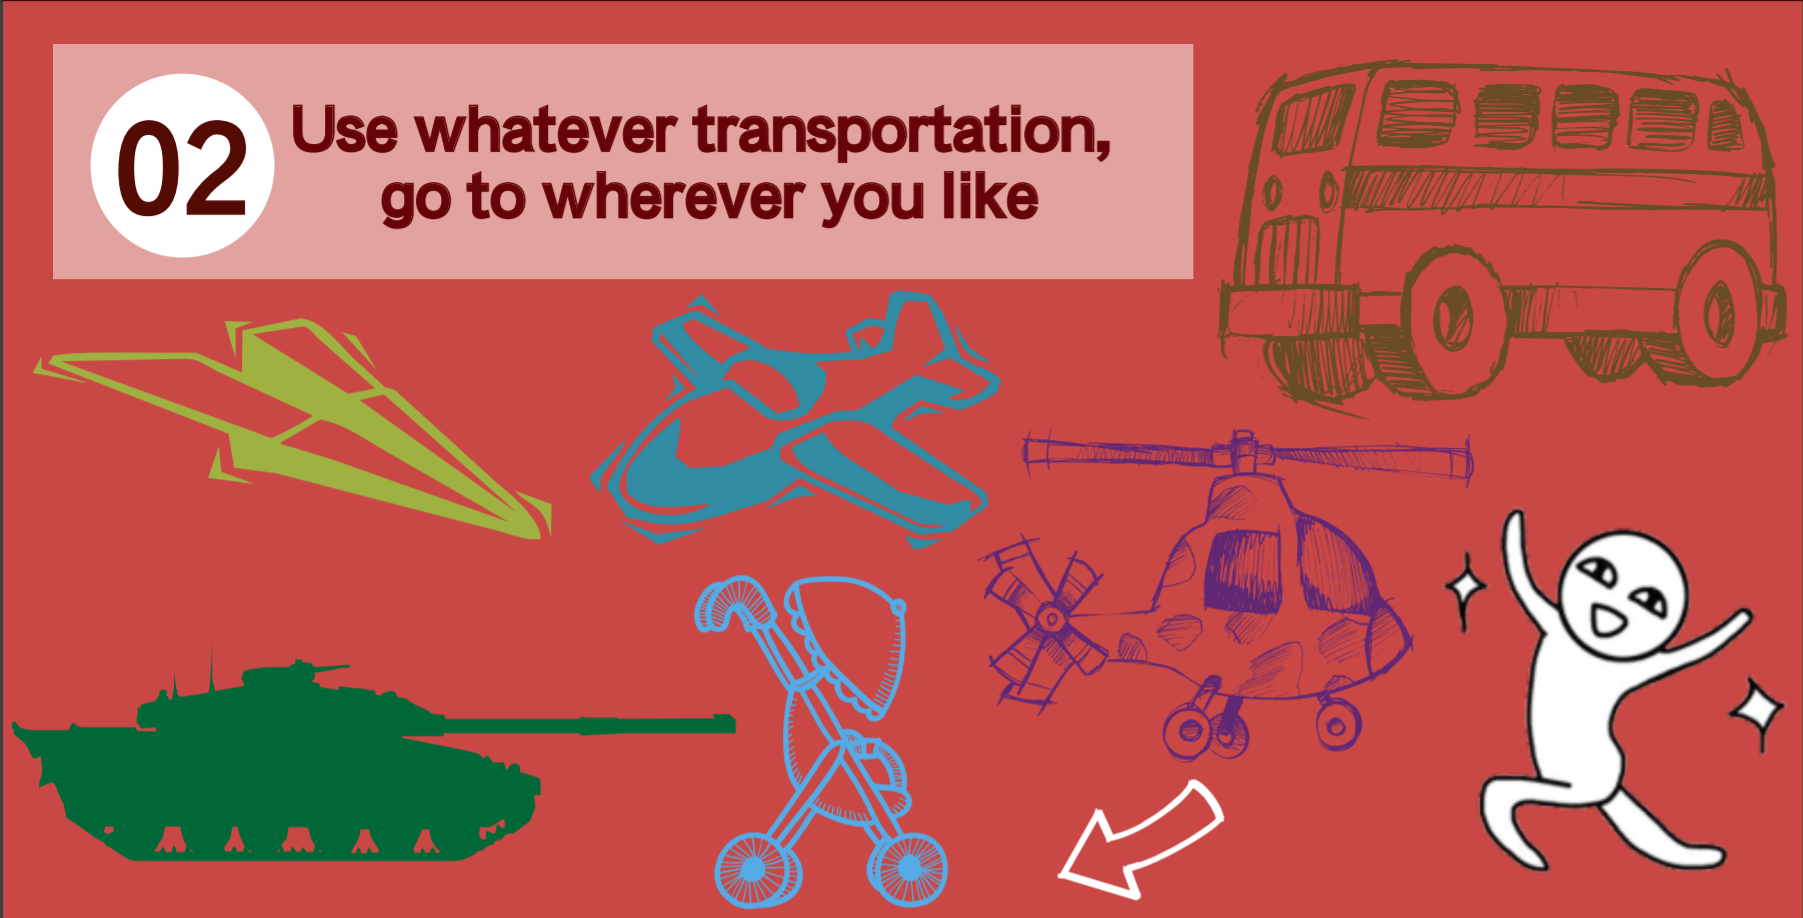
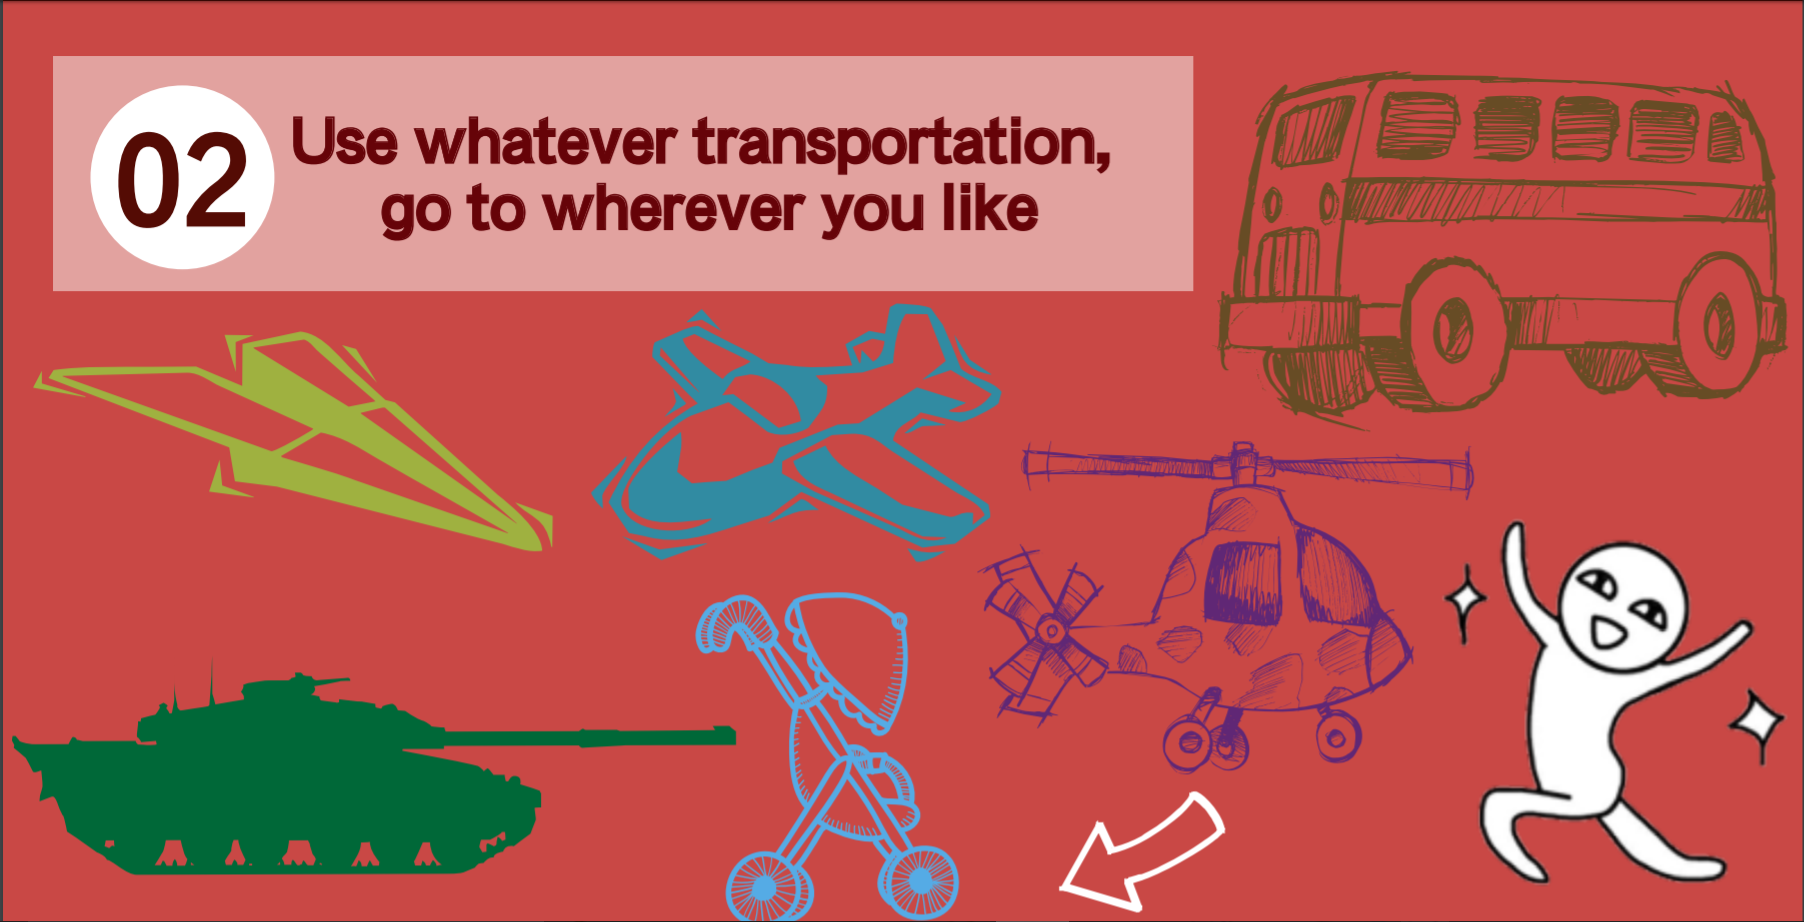
infographic added

diff --git a/source/Creative - Start Bootstrap Theme.html b/source/Creative - Start Bootstrap Theme.html
@@ -123,7 +123,7 @@
     </section>
 
     <section class="p-0" id="portfolio">
-      <div class="container-fluid">
+      <div class="container-fluid" >
         <div class="row no-gutter popup-gallery">
           <div class="col-lg-6 col-sm-6">
             <a class="portfolio-box" ><!-- add the url for the pic, disabled now -->
@@ -172,7 +172,7 @@
           </div>
           <div class="col-lg-6 col-sm-6">
             <a class="portfolio-box" href="#">
-              <img class="img-fluid" src="./Creative - Start Bootstrap Theme_files/4.jpg" alt="">
+              <img class="img-fluid" src="./img/infographic4.PNG" alt="">
               <div class="portfolio-box-caption">
                 <div class="portfolio-box-caption-content">
                   <div class="project-category text-faded">

diff --git a/source/Creative - Start Bootstrap Theme_files/magnific-popup.css b/source/Creative - Start Bootstrap Theme_files/magnific-popup.css
@@ -1,4 +1,7 @@
 /* Magnific Popup CSS */
+.container-fluid{color: #C94845;background-color: #C94845;}
+
+
 .mfp-bg {
   top: 0;
   left: 0;
